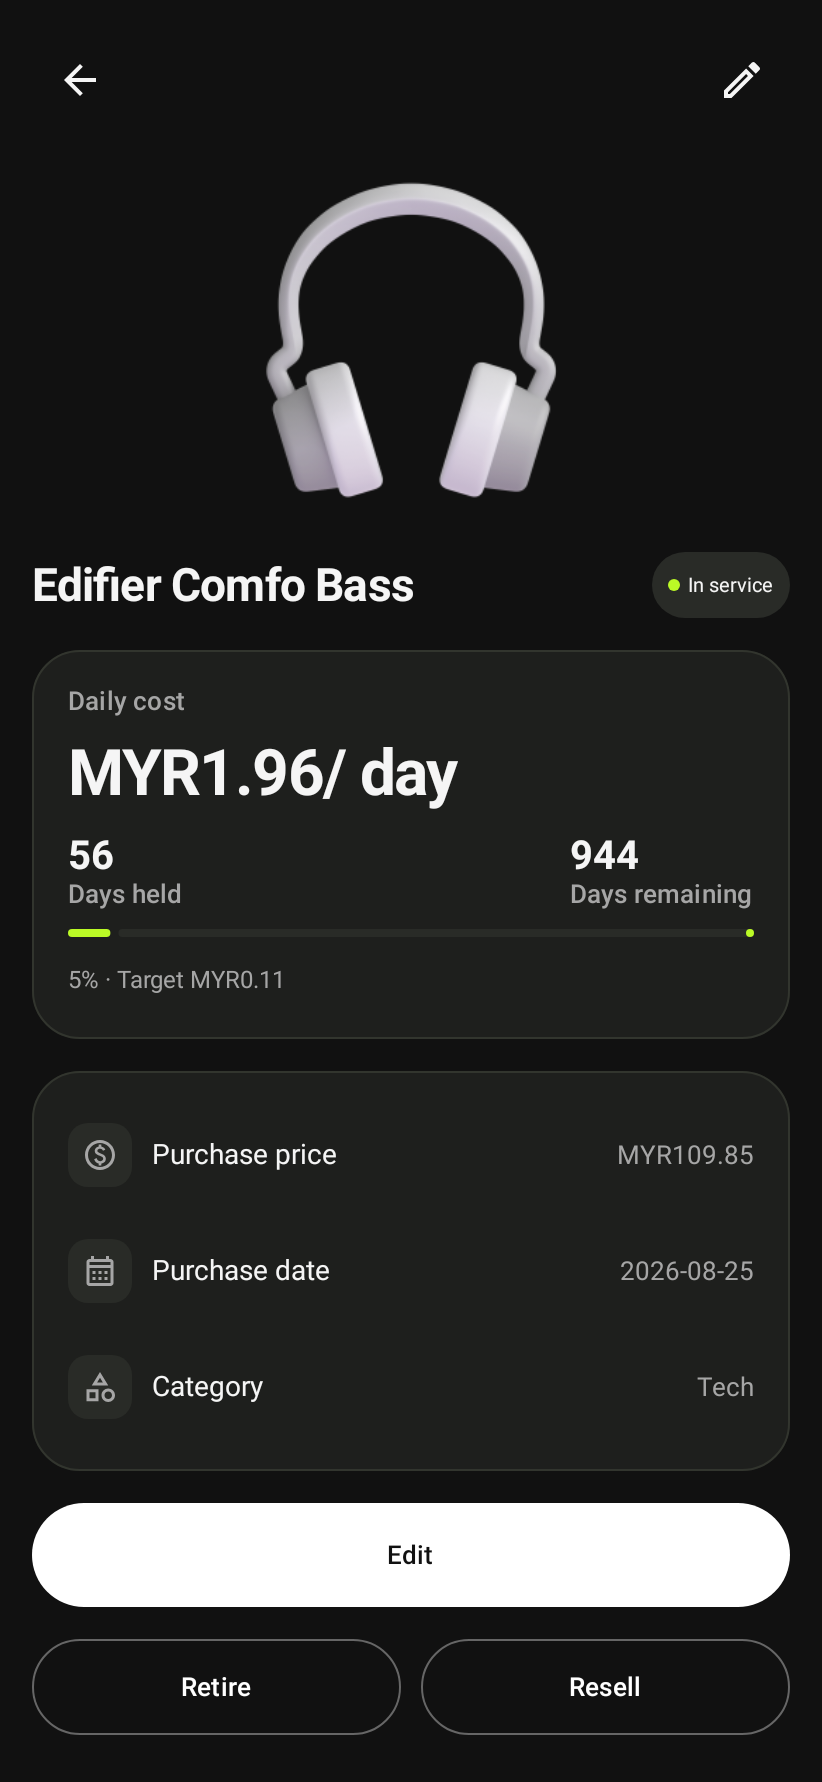
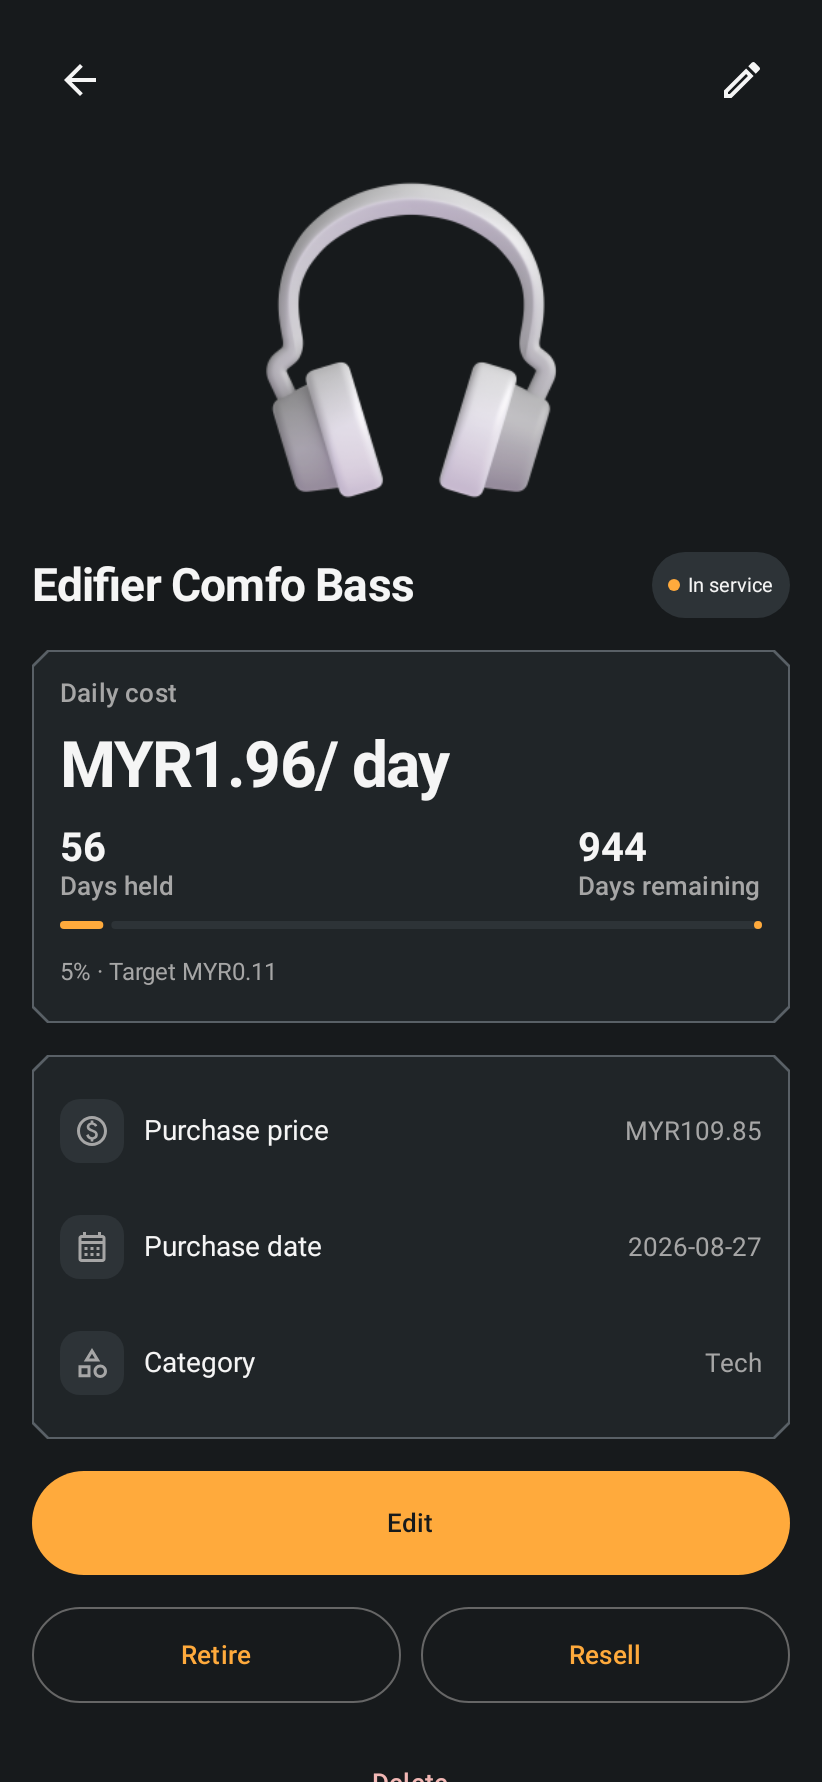
Apply Alloy theme and labeled navigation

diff --git a/app/src/main/java/app/dayerize/ui/Components.kt b/app/src/main/java/app/dayerize/ui/Components.kt
@@ -25,17 +25,17 @@ import java.text.NumberFormat
 import java.util.*
 import java.io.File
 
-val Lime=Color(0xFFBBFA26)
+val Lime=AlloyTokens.Amber
 data class DisplayOptions(val decimals:Int?=null,val grouping:Boolean=true)
 val LocalDisplayOptions=staticCompositionLocalOf { DisplayOptions() }
 @Composable fun DayerizeTheme(dark:Boolean,content:@Composable ()->Unit) {
-    val colors=if(dark) darkColorScheme(primary=Color.White,onPrimary=Color(0xFF111111),primaryContainer=Lime,onPrimaryContainer=Color.Black,secondary=Lime,onSecondary=Color.Black,background=Color(0xFF111111),onBackground=Color(0xFFF5F5F5),surface=Color(0xFF1E1F1D),onSurface=Color(0xFFF5F5F5),surfaceVariant=Color(0xFF292B27),onSurfaceVariant=Color(0xFFA6A6A6),outlineVariant=Color(0xFF32352E),outline=Color(0xFF666666))
-    else lightColorScheme(primary=Color(0xFF151515),onPrimary=Color.White,primaryContainer=Lime,onPrimaryContainer=Color.Black,secondary=Color(0xFF527300),background=Color(0xFFF4F4F2),surface=Color.White,surfaceVariant=Color(0xFFECECE8),onSurface=Color(0xFF151515),onBackground=Color(0xFF151515),onSurfaceVariant=Color(0xFF64645F),outlineVariant=Color(0xFFE2E2DD))
+    val colors=if(dark) darkColorScheme(primary=AlloyTokens.Amber,onPrimary=Color(0xFF171A1C),primaryContainer=Lime,onPrimaryContainer=Color.Black,secondary=Lime,onSecondary=Color.Black,background=AlloyTokens.Background,onBackground=Color(0xFFF5F5F5),surface=AlloyTokens.Surface,onSurface=Color(0xFFF5F5F5),surfaceVariant=Color(0xFF2D3337),onSurfaceVariant=Color(0xFFA6A6A6),outlineVariant=AlloyTokens.Outline,outline=Color(0xFF666666))
+    else lightColorScheme(primary=Color(0xFF151515),onPrimary=Color.White,primaryContainer=Lime,onPrimaryContainer=Color.Black,secondary=Color(0xFF895000),background=Color(0xFFF4F4F2),surface=Color.White,surfaceVariant=Color(0xFFECECE8),onSurface=Color(0xFF151515),onBackground=Color(0xFF151515),onSurfaceVariant=Color(0xFF64645F),outlineVariant=Color(0xFFE2E2DD))
     MaterialTheme(colorScheme=colors,typography=Typography(bodyLarge=androidx.compose.ui.text.TextStyle(fontSize=15.sp,lineHeight=23.sp),bodyMedium=androidx.compose.ui.text.TextStyle(fontSize=14.sp,lineHeight=21.sp),labelLarge=androidx.compose.ui.text.TextStyle(fontSize=13.sp,fontWeight=FontWeight.Medium,letterSpacing=0.1.sp)),content=content)
 }
 @Composable fun Panel(modifier:Modifier=Modifier,content:@Composable ColumnScope.()->Unit) {
-    Surface(modifier,shape=RoundedCornerShape(24.dp),border=BorderStroke(0.7.dp,MaterialTheme.colorScheme.outlineVariant),color=MaterialTheme.colorScheme.surface) {
-        Column(Modifier.padding(18.dp),verticalArrangement=Arrangement.spacedBy(10.dp),content=content)
+    Surface(modifier,shape=AlloyPanelShape,border=BorderStroke(0.7.dp,MaterialTheme.colorScheme.outlineVariant),color=MaterialTheme.colorScheme.surface) {
+        Column(Modifier.padding(14.dp),verticalArrangement=Arrangement.spacedBy(10.dp),content=content)
     }
 }
 @Composable fun Label(id:Int) { Text(stringResource(id),style=MaterialTheme.typography.labelLarge,color=MaterialTheme.colorScheme.onSurfaceVariant) }
@@ -65,7 +65,7 @@ fun statusLabel(status:Status)=when(status){Status.ACTIVE->R.string.active;Statu
 }
 @Composable fun ScreenHeading(title:String,action:(@Composable ()->Unit)?=null) {
     Row(Modifier.fillMaxWidth().padding(top=12.dp,bottom=4.dp),verticalAlignment=Alignment.CenterVertically) {
-        Text(title,Modifier.weight(1f),fontSize=25.sp,fontWeight=FontWeight.Bold,letterSpacing=(-0.6).sp)
+        Text(title,Modifier.weight(1f),fontSize=22.sp,fontWeight=FontWeight.Bold,letterSpacing=(-0.6).sp)
         action?.invoke()
     }
 }
@@ -78,8 +78,8 @@ fun statusLabel(status:Status)=when(status){Status.ACTIVE->R.string.active;Statu
     }
 }
 @Composable fun SelectPill(text:String,selected:Boolean,onClick:()->Unit) {
-    Surface(onClick=onClick,shape=RoundedCornerShape(50),color=if(selected)MaterialTheme.colorScheme.primary else MaterialTheme.colorScheme.surfaceVariant,contentColor=if(selected)MaterialTheme.colorScheme.onPrimary else MaterialTheme.colorScheme.onSurfaceVariant) {
-        Box(Modifier.heightIn(min=40.dp).padding(horizontal=14.dp,vertical=10.dp),contentAlignment=Alignment.Center) { Text(text,fontSize=13.sp,fontWeight=if(selected)FontWeight.Bold else FontWeight.Normal) }
+    Surface(onClick=onClick,shape=RoundedCornerShape(12.dp),color=if(selected)MaterialTheme.colorScheme.primary else MaterialTheme.colorScheme.surfaceVariant,contentColor=if(selected)MaterialTheme.colorScheme.onPrimary else MaterialTheme.colorScheme.onSurfaceVariant) {
+        Box(Modifier.heightIn(min=48.dp).padding(horizontal=14.dp,vertical=10.dp),contentAlignment=Alignment.Center) { Text(text,fontSize=13.sp,fontWeight=if(selected)FontWeight.Bold else FontWeight.Normal) }
     }
 }
 @OptIn(ExperimentalMaterial3Api::class)

diff --git a/app/src/main/java/app/dayerize/ui/AppRoot.kt b/app/src/main/java/app/dayerize/ui/AppRoot.kt
@@ -15,6 +15,8 @@ import androidx.compose.material3.*
 import androidx.compose.ui.Modifier
 import androidx.compose.ui.Alignment
 import androidx.compose.ui.unit.dp
+import androidx.compose.ui.unit.sp
+import androidx.compose.foundation.selection.selectable
 import androidx.compose.foundation.shape.RoundedCornerShape
 import androidx.compose.ui.draw.clip
 import androidx.compose.ui.platform.LocalContext
@@ -67,16 +69,14 @@ import java.time.LocalDate
                 tab==2->AnalyticsScreen(state.copy(assets=state.assets.filterNot { it.wishlist }),vm,today)
                 else->SettingsScreen(state,vm,onExport={export.launch("dayerize-${LocalDate.now()}.zip")},onRestore={import.launch(arrayOf("application/zip","application/octet-stream"))})
             }
-            if(!editing && selected==null && state.loaded) Row(Modifier.align(Alignment.BottomCenter).fillMaxWidth().padding(horizontal=24.dp,vertical=12.dp),horizontalArrangement=Arrangement.spacedBy(12.dp),verticalAlignment=Alignment.CenterVertically) {
-                Surface(Modifier.weight(1f),shape=RoundedCornerShape(40.dp),color=MaterialTheme.colorScheme.surface,border=BorderStroke(1.dp,MaterialTheme.colorScheme.outlineVariant),shadowElevation=8.dp) {
-                    Row(Modifier.padding(horizontal=8.dp,vertical=8.dp),horizontalArrangement=Arrangement.SpaceEvenly) {
-                        listOf(R.string.collection to Icons.Outlined.Home,R.string.wishlist to Icons.Outlined.FavoriteBorder,R.string.analytics to Icons.Outlined.PieChart,R.string.settings to Icons.Outlined.Settings).forEachIndexed { i,(label,icon)->
-                            IconButton(onClick={tab=i},modifier=Modifier.clip(RoundedCornerShape(18.dp)).background(if(tab==i)MaterialTheme.colorScheme.surfaceVariant else androidx.compose.ui.graphics.Color.Transparent)) { Icon(icon,stringResource(label),tint=if(tab==i)MaterialTheme.colorScheme.onSurface else MaterialTheme.colorScheme.onSurfaceVariant.copy(alpha=.55f)) }
+            if(!editing && selected==null && state.loaded) Surface(Modifier.align(Alignment.BottomCenter).fillMaxWidth(),color=MaterialTheme.colorScheme.surface,border=BorderStroke(0.7.dp,MaterialTheme.colorScheme.outlineVariant)) {
+                Row(Modifier.fillMaxWidth().padding(vertical=6.dp),horizontalArrangement=Arrangement.SpaceEvenly) {
+                    listOf(R.string.collection to Icons.Outlined.GridView,R.string.wishlist to Icons.Outlined.FavoriteBorder,R.string.analytics to Icons.Outlined.BarChart,R.string.settings to Icons.Outlined.Settings).forEachIndexed { i,(label,icon)->
+                        Column(Modifier.weight(1f).selectable(selected=tab==i,onClick={tab=i},role=androidx.compose.ui.semantics.Role.Tab).heightIn(min=56.dp).padding(vertical=6.dp),horizontalAlignment=Alignment.CenterHorizontally,verticalArrangement=Arrangement.spacedBy(4.dp)) {
+                            Icon(icon,stringResource(label),Modifier.size(22.dp),tint=if(tab==i)MaterialTheme.colorScheme.secondary else MaterialTheme.colorScheme.onSurfaceVariant)
+                            Text(stringResource(label),fontSize=12.sp,color=if(tab==i)MaterialTheme.colorScheme.secondary else MaterialTheme.colorScheme.onSurfaceVariant,textAlign=androidx.compose.ui.text.style.TextAlign.Center)
                         }
                     }
-                }
-                Surface(onClick={selected=null;acquiring=false;editing=true},shape=RoundedCornerShape(50),color=MaterialTheme.colorScheme.primaryContainer,contentColor=MaterialTheme.colorScheme.onPrimaryContainer,border=BorderStroke(1.dp,MaterialTheme.colorScheme.outlineVariant)) {
-                    Box(Modifier.size(64.dp),contentAlignment=Alignment.Center) { Icon(Icons.Outlined.Add,stringResource(R.string.add_asset),Modifier.size(30.dp),tint=androidx.compose.ui.graphics.Color.Black) }
                 }
             }
         } }

diff --git a/app/src/main/java/app/dayerize/features/collection/CollectionScreen.kt b/app/src/main/java/app/dayerize/features/collection/CollectionScreen.kt
@@ -44,7 +44,7 @@ import java.math.RoundingMode
         };total
     }.getOrNull() }
     LazyVerticalGrid(columns=GridCells.Fixed(if(list || wishes)1 else 2),contentPadding=PaddingValues(start=16.dp,end=16.dp,top=4.dp,bottom=110.dp),horizontalArrangement=Arrangement.spacedBy(12.dp),verticalArrangement=Arrangement.spacedBy(12.dp)) {
-        item(span={GridItemSpan(maxLineSpan)}) { ScreenHeading(if(wishes)stringResource(R.string.wishlist) else "Dayerize") { IconButton(onClick={showSearch=!showSearch}){Icon(Icons.Outlined.Search,stringResource(R.string.search))} } }
+        item(span={GridItemSpan(maxLineSpan)}) { ScreenHeading(if(wishes)stringResource(R.string.wishlist) else "Dayerize") { IconButton(onClick={showSearch=!showSearch}){Icon(Icons.Outlined.Search,stringResource(R.string.search))}; FilledIconButton(onClick=onAdd,shape=RoundedCornerShape(12.dp)){Icon(Icons.Outlined.Add,stringResource(R.string.add_asset))} } }
         if(showSearch)item(span={GridItemSpan(maxLineSpan)}) { OutlinedTextField(search,{search=it},placeholder={Text(stringResource(R.string.search))},modifier=Modifier.fillMaxWidth(),singleLine=true,shape=RoundedCornerShape(24.dp),leadingIcon={Icon(Icons.Outlined.Search,null)}) }
         item(span={GridItemSpan(maxLineSpan)}) { Panel(Modifier.fillMaxWidth()) {
             Row(verticalAlignment=Alignment.CenterVertically,horizontalArrangement=Arrangement.spacedBy(10.dp)) {

diff --git a/app/src/main/java/app/dayerize/ui/AlloyTokens.kt b/app/src/main/java/app/dayerize/ui/AlloyTokens.kt
@@ -1,0 +1,15 @@
+package app.dayerize.ui
+
+import androidx.compose.foundation.shape.CutCornerShape
+import androidx.compose.ui.graphics.Color
+import androidx.compose.ui.unit.dp
+
+object AlloyTokens {
+    val Background=Color(0xFF171A1C)
+    val Surface=Color(0xFF202528)
+    val Outline=Color(0xFF596066)
+    val Amber=Color(0xFFFFAA3C)
+    val PageMargin=16.dp
+    val ContentSpacing=12.dp
+}
+val AlloyPanelShape=CutCornerShape(8.dp)
